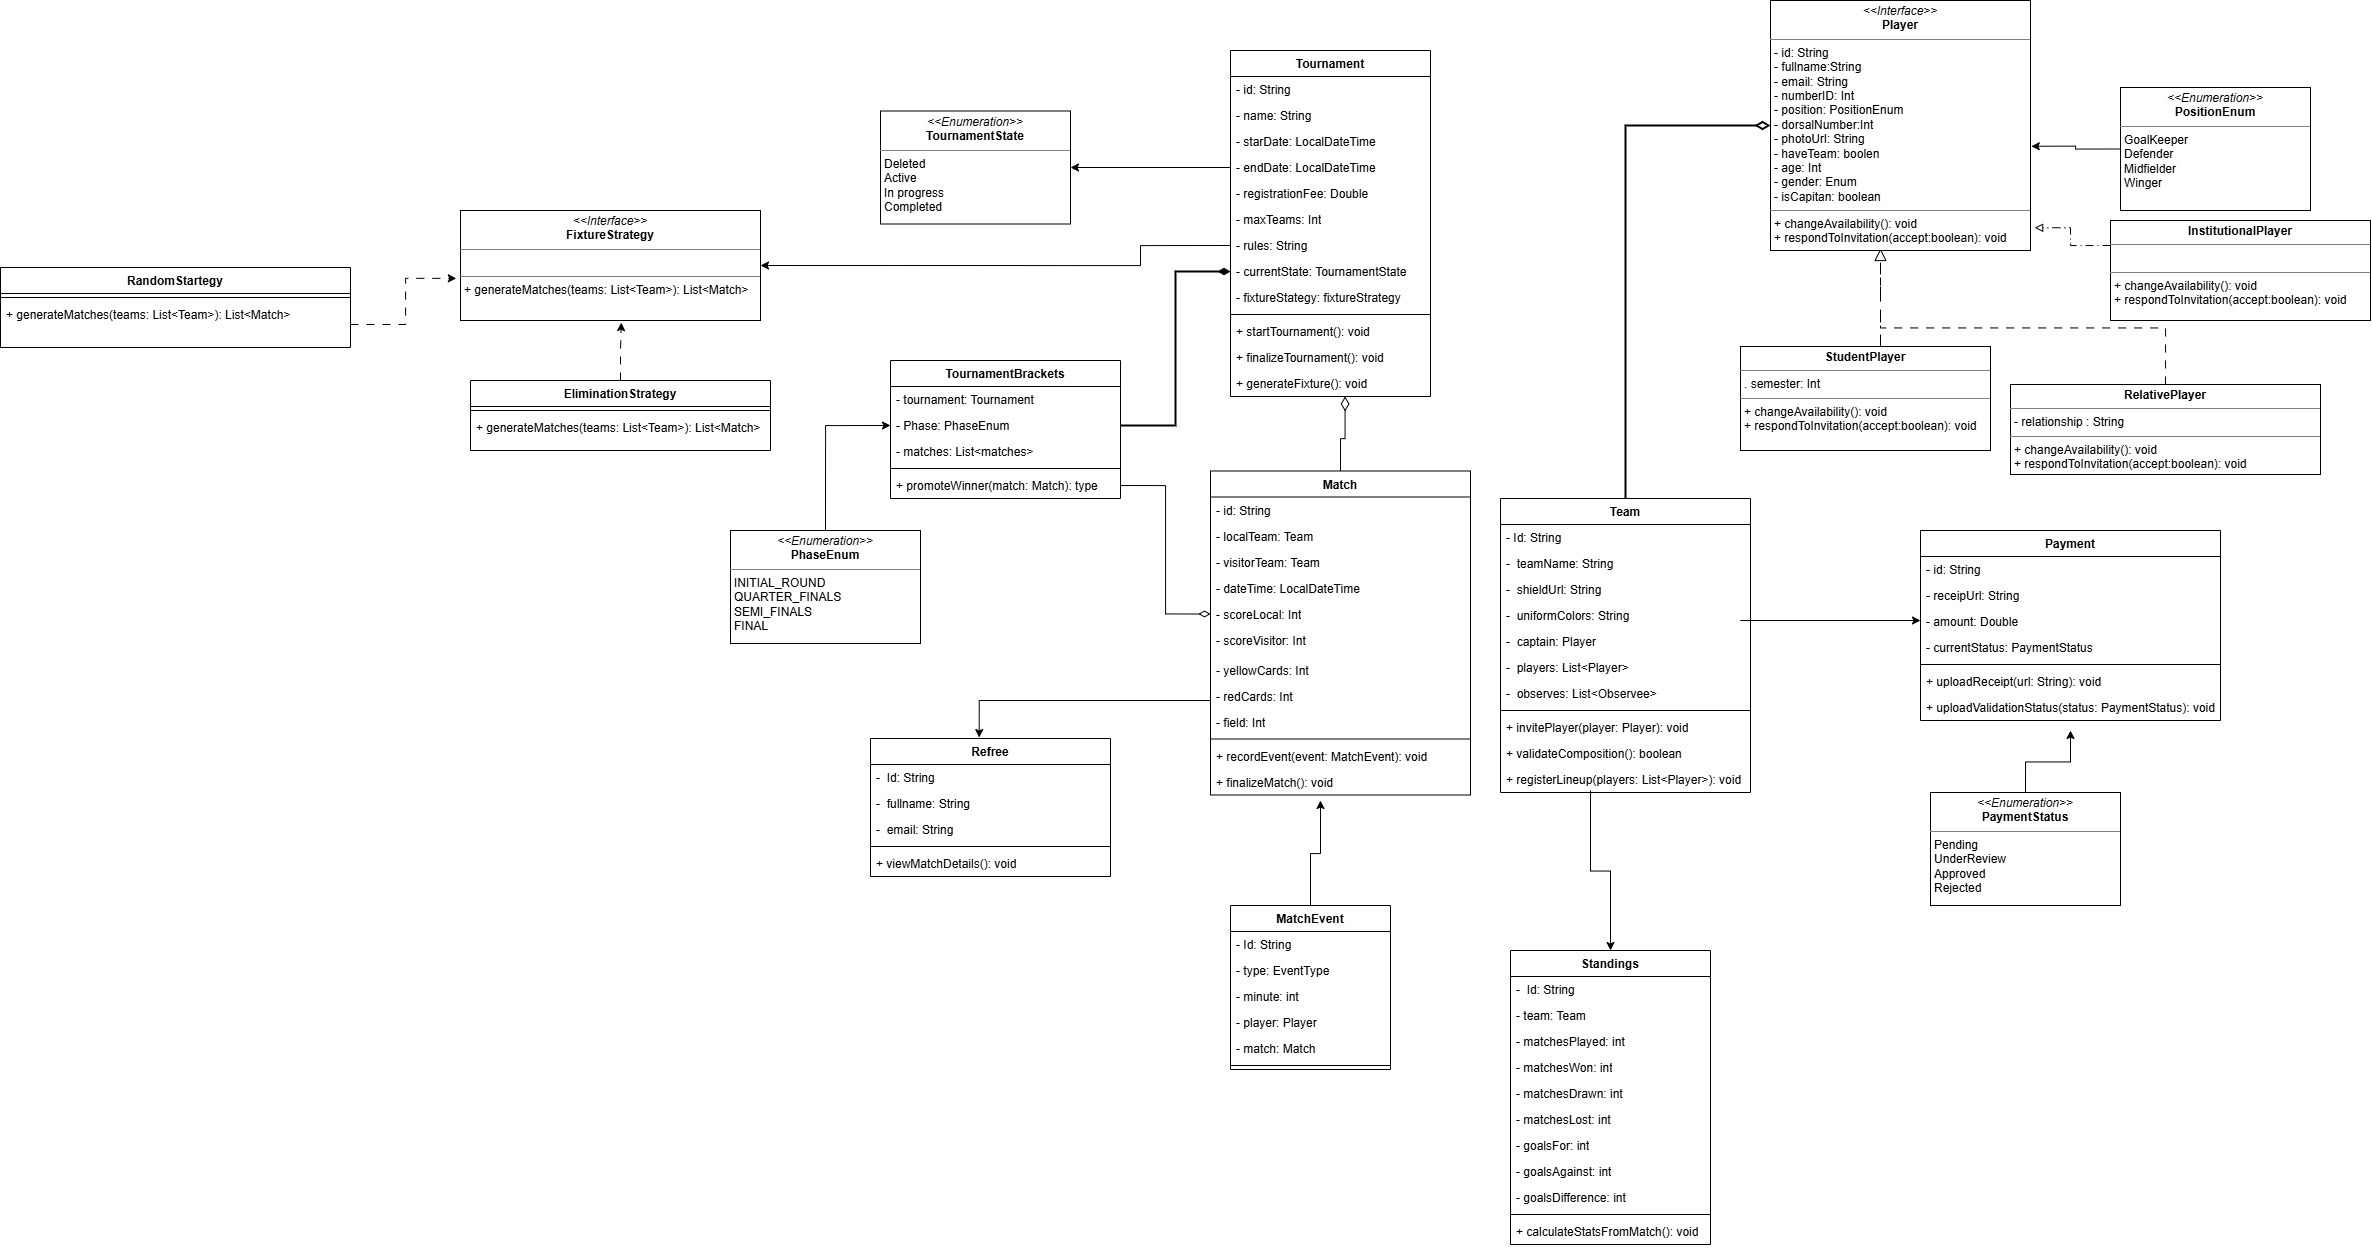
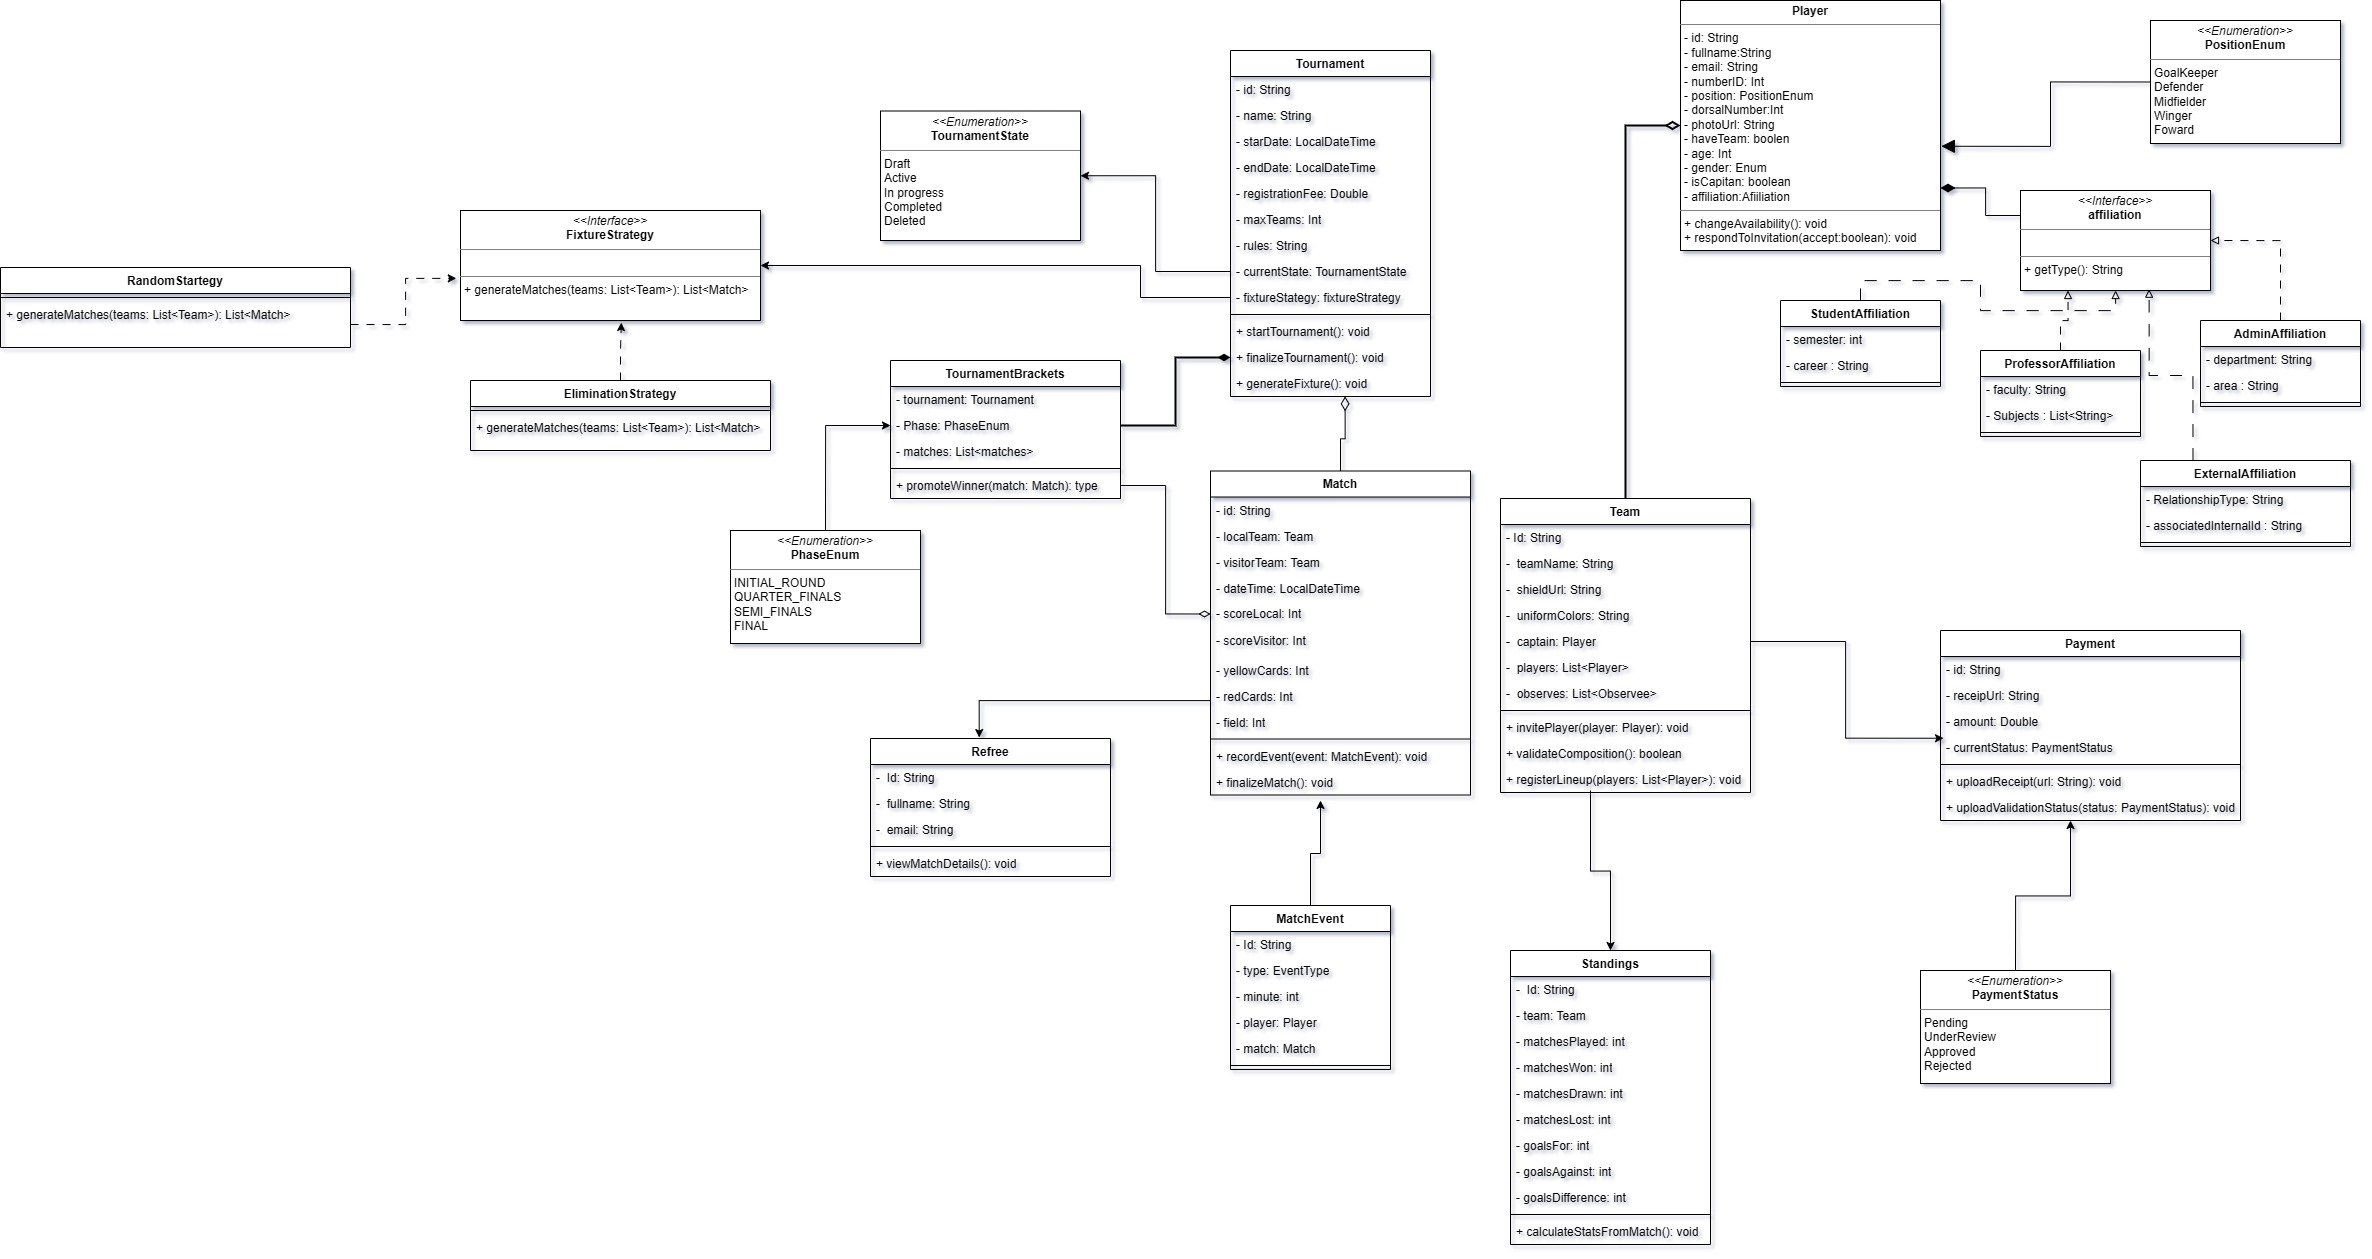
Documento de README con nuevos diagramas

diff --git a/README.md b/README.md
@@ -17,6 +17,17 @@ El sistema consiste en una plataforma web orientada a la gestión de torneos de 
 ## Diagrama de Contexto
 ![TechCUP-Futbol_DContexto.png](docs/Images/TechCUP-Futbol_DContexto.png)
 
+Nuestro sistema central de TECHCUP-FUTBOL se basa en nucleos de gestion de torneos, manejo de usuarios y control de partidos.
+El diagrama de contexto usa los siguientes componentes importantes:
+
+- Actores: Estudiantes, Profesores, Admininstrativos, Graduados y demas de la Escuela Colombiana dd Ingenieria Julio Garavito junto con los invitados por parte de miembros de la institución
+- Capitán: Miembro de la institución que se encarga de registrar y administrar su propio equipo
+- Organizador: Encargado de diseñar y crear los torneos
+- Administrador: Controla el sistema TECHCUP en su totalidad
+- Arbitro: Consulta solamente los partidos a dirigir y ejecuta su labor de arbitraje
+- AWS: PostgreSQL para guardar toda la información del torneo manteniedo la persistencia del sistema
+- Sistemas externos: Sistema de registro de jugadores para integración de validaciones por cada uno de ellos
+
 ## Tecnologias utilizadas
 - Java OpenJDK 21: Lenguaje de programación base 
 - Spring Boot: Framework para el desarrollo de aplicaciones web
@@ -36,14 +47,19 @@ El sistema consiste en una plataforma web orientada a la gestión de torneos de 
 
 ## Diagrama de Despliegue
 
-## Diagrama de Clases
+## Diagrama de Clase
 ![Diagrama_Clases.jpg](docs/Images/Diagrama_Clases.jpg)
-
+Este diagrama modela el dominio de nuestra app TECHCUP usando principios de "clean code" y patrónes de diseños.
 
 ## Diagrama de Componentes
 
-## Diagrama de Entidad-Relacion 
+## Diagrama de Entidad-Relacion (Base de datos)
+![Diagrama Entidad_Relacion.jpg](docs/Images/Diagrama%20Entidad_Relacion.jpg)
+Este diagrama modela la estructura de datos de TECHCUP basandonse en principios de normalización. Su identidad central de torneos
+actua como el eje de dominio, relacionandose con sus configuraciones, pagos, y llaves de eliminatorias. Estas llaves se componen de múltiples 
+partidos, donde se almacenan atributos de resultados y métricas de los encuentros, se vinculan con el registro de encuentros. Los equipos agrupa a los jugadores , 
+estableciendo relaciones de pertenencia y roles como capitán, mientras que las alineaciones se crean de manera táctica.
+En conjunto, el modelo garantiza consistencia en los datos, soporte transacional y una adecuada separación de responsabilidades a nivel de persistencia.
 
-##
 
 
